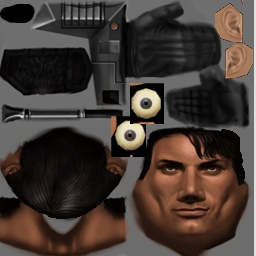
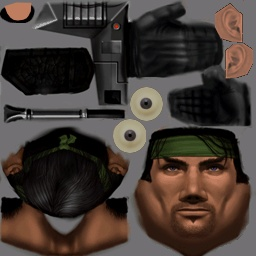
Clonk: Marine skin

diff --git a/UnrealArena.ocf/Arena.ocd/Characters.ocd/Clonk.ocd/Script.c b/UnrealArena.ocf/Arena.ocd/Characters.ocd/Clonk.ocd/Script.c
@@ -10,7 +10,7 @@ func SetSkin(int new_skin)
 	skin = new_skin;
 	
 	// determine skin data
-	if (skin == 0 || skin == 1)	skin_name = "commander";
+	if (skin == 0 || skin == 1)	skin_name = "soldier"; //"commander";
 	if (skin == 2 || skin == 3)	skin_name = "soldier";
 	if (skin == 0 || skin == 2)	skin_gender = "m";
 	if (skin == 1 || skin == 3)	skin_gender = "f";
@@ -29,8 +29,8 @@ func SetSkin(int new_skin)
 	// TODO: use the actual skin data instead of predefined strings
 	AddAppearance(0, new Skin_Definition { GraphicsDefinition = UA_Clonk_Skins, GraphicsName = "MSoldierBody", Flags = AM_MatchSkeleton, MeshMaterial = [skins.body, skins.arms]});
 	AddAppearance(1, new Skin_Definition { GraphicsDefinition = UA_Clonk_Skins, GraphicsName = "MSoldierLegs", Flags = AM_MatchSkeleton, MeshMaterial = ["gore_torso", skins.legs, skins.arms]});
-	AddAppearance(2, new Skin_Definition { GraphicsDefinition = UA_Clonk_Skins, GraphicsName = "MSoldierArmL", Flags = AM_MatchSkeleton, MeshMaterial = [skinds.body, skins.arms, skins.head]});
-	AddAppearance(3, new Skin_Definition { GraphicsDefinition = UA_Clonk_Skins, GraphicsName = "MSoldierArmR", Flags = AM_MatchSkeleton, MeshMaterial = [skinds.body, skins.arms, skins.head]});
+	AddAppearance(2, new Skin_Definition { GraphicsDefinition = UA_Clonk_Skins, GraphicsName = "MSoldierArmL", Flags = AM_MatchSkeleton, MeshMaterial = [skins.body, skins.arms, skins.head]});
+	AddAppearance(3, new Skin_Definition { GraphicsDefinition = UA_Clonk_Skins, GraphicsName = "MSoldierArmR", Flags = AM_MatchSkeleton, MeshMaterial = [skins.body, skins.arms, skins.head]});
 	AddAppearance(4, new Skin_Definition { GraphicsDefinition = UA_Clonk_Skins, GraphicsName = "MSoldierHead", Flags = AM_MatchSkeleton, MeshMaterial = [skins.head]});
 
 	return skin;
@@ -38,8 +38,8 @@ func SetSkin(int new_skin)
 
 func GetSkinTextures()
 {
-	var skin = "_guard";
-	var prefix = Format("%s_%s%s", skin_gender, skin_name, skin);
+	var skin_suffix = "_marine";
+	var prefix = Format("%s_%s%s", skin_gender, skin_name, skin_suffix);
 	return {body = Format("%s_body", prefix),
             legs = Format("%s_legs", prefix),
             arms = Format("%s_arms", prefix),
